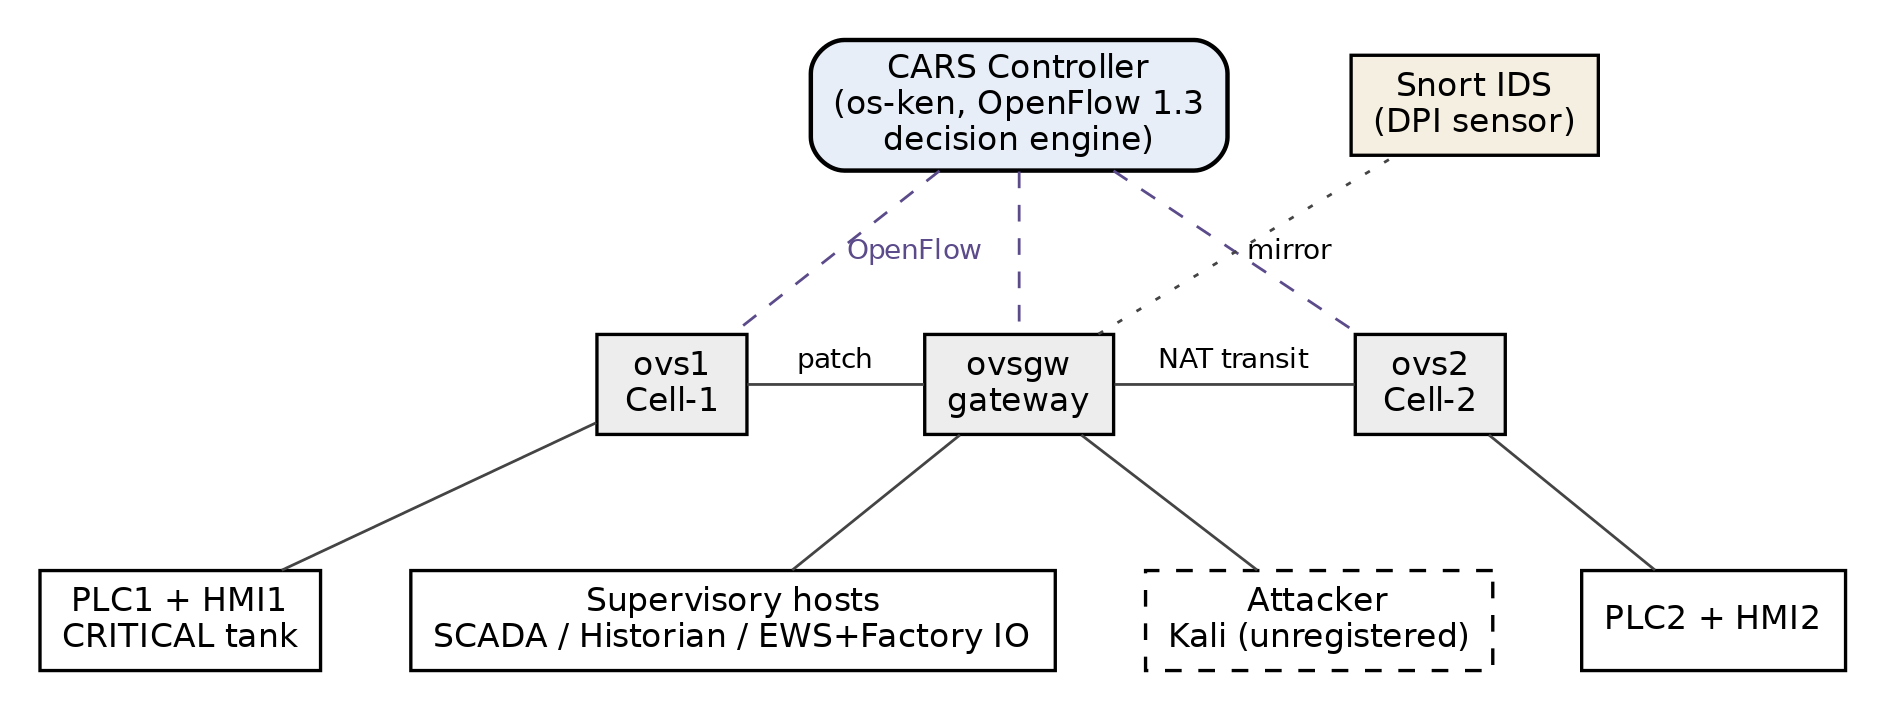
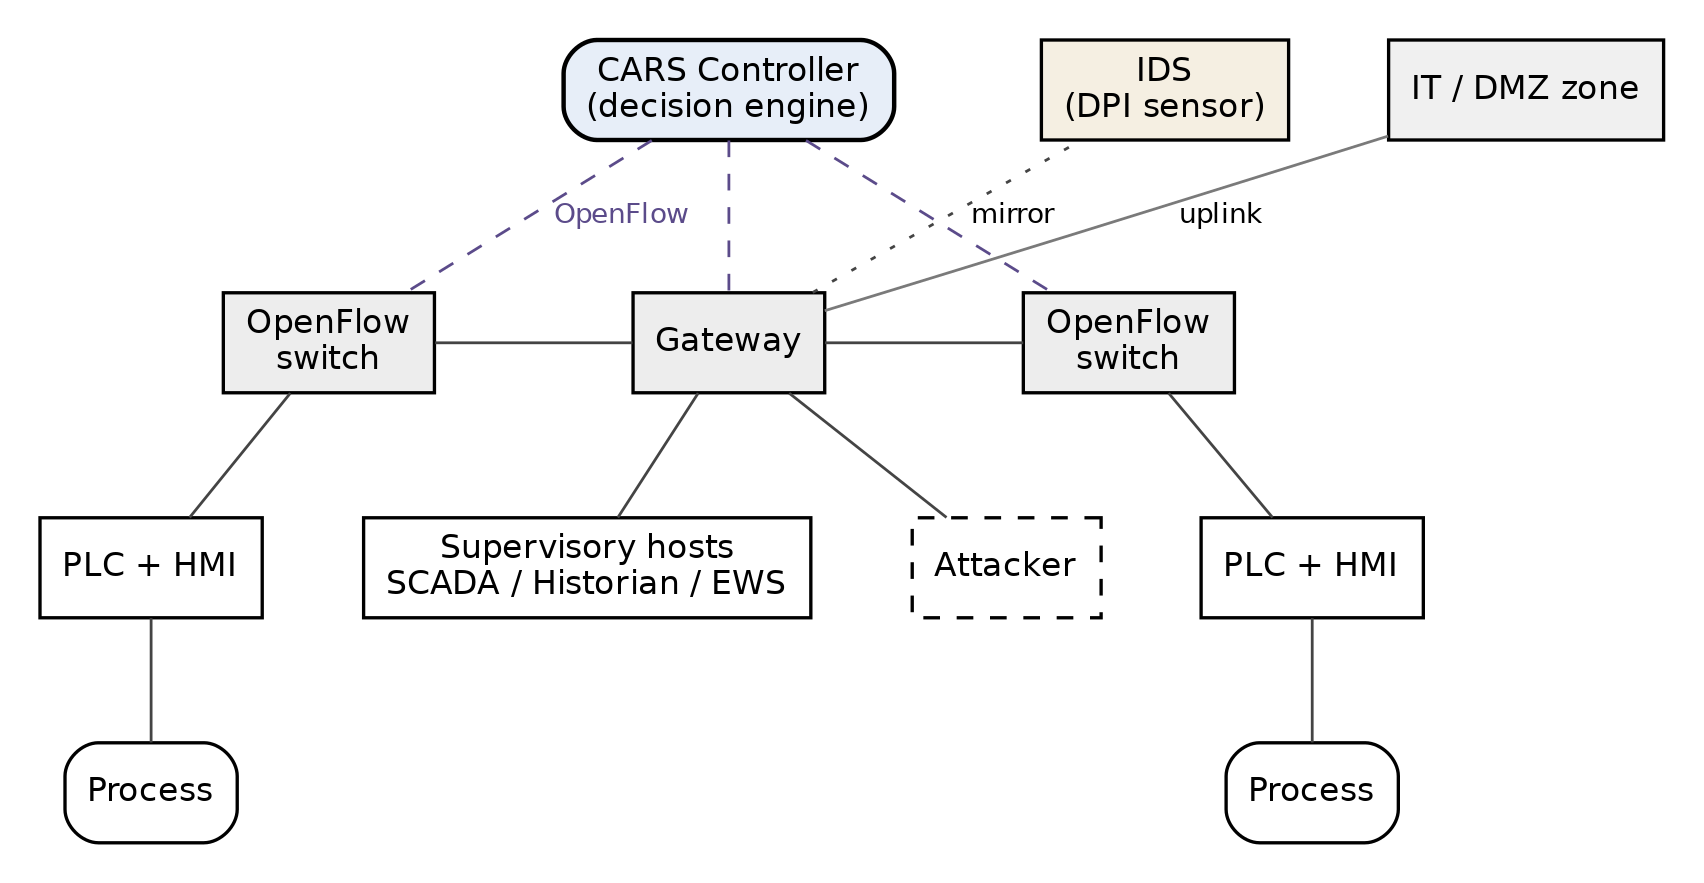
fig 3.2: make system architecture general (generic OpenFlow switches/gateway, PLC+HMI tied to process, Attacker, drop testbed specifics: ovs names, patch/NAT transit, Kali, Factory IO; add general IT/DMZ uplink)

diff --git a/report/03_execution.tex b/report/03_execution.tex
@@ -47,12 +47,12 @@ Two separations shape the design. The controller, which decides, is separate fro
 \section{The enforcement pipeline}
 \label{sec:pipeline}
 
-Before the pipeline itself, Figure~\ref{fig:sysarch} gives the concrete shape of the system and how its parts connect: a single CARS controller governs three Open vSwitch switches over OpenFlow, a Snort sensor reads a mirror of the gateway switch to recover the industrial operation, and the protected assets, the two process cells and the supervisory hosts, sit on the switches behind them. This is the plain component view; the abstract framework was Figure~\ref{fig:arch} and the full addressed testbed is Figure~\ref{fig:topology}.
+Before the pipeline itself, Figure~\ref{fig:sysarch} gives the general shape of the system and how its parts connect: a single CARS controller governs the OpenFlow switches over OpenFlow, a DPI sensor reads a mirror of the gateway switch to recover the industrial operation, and the protected assets, the PLCs driving their processes and the supervisory hosts, sit on the switches behind them, with an uplink from the gateway to the enterprise IT and DMZ zones. This is the plain component view; the abstract framework was Figure~\ref{fig:arch} and the full addressed testbed is Figure~\ref{fig:topology}.
 
 \begin{figure}[t]
 \centering
 \includegraphics[width=0.95\textwidth]{fig_cars_sysarch.png}
-\caption[The system architecture: controller, switches, IDS and assets]{The concrete system architecture. One CARS controller (the os-ken decision engine) programs three Open vSwitch switches, \texttt{ovs1}, \texttt{ovsgw} and \texttt{ovs2}, over OpenFlow (dashed); a Snort IDS reads a mirror of the gateway switch (dotted); and process traffic crosses the switches (solid) to the protected assets. The two cells are joined to the gateway by a patch link and a NAT transit.}
+\caption[The system architecture: controller, switches, IDS and assets]{The system architecture in general form. One CARS controller (the decision engine) programs the OpenFlow switches over OpenFlow (dashed); an IDS reads a mirror of the gateway switch (dotted); process traffic crosses the switches (solid) to the protected assets, each PLC driving its process, with the supervisory hosts and an uplink to the enterprise IT and DMZ zones on the gateway. The concrete testbed instantiation of this architecture is Figure~\ref{fig:topology}.}
 \label{fig:sysarch}
 \end{figure}
 
